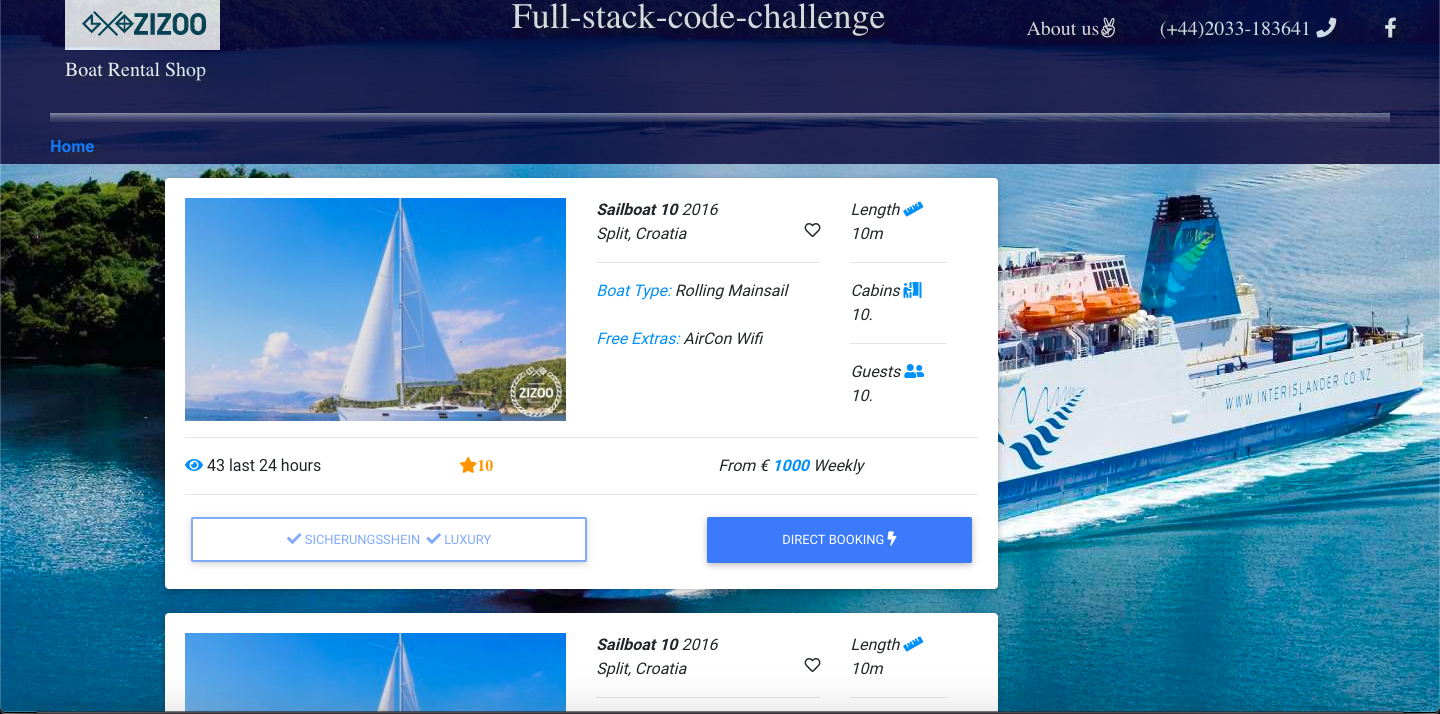
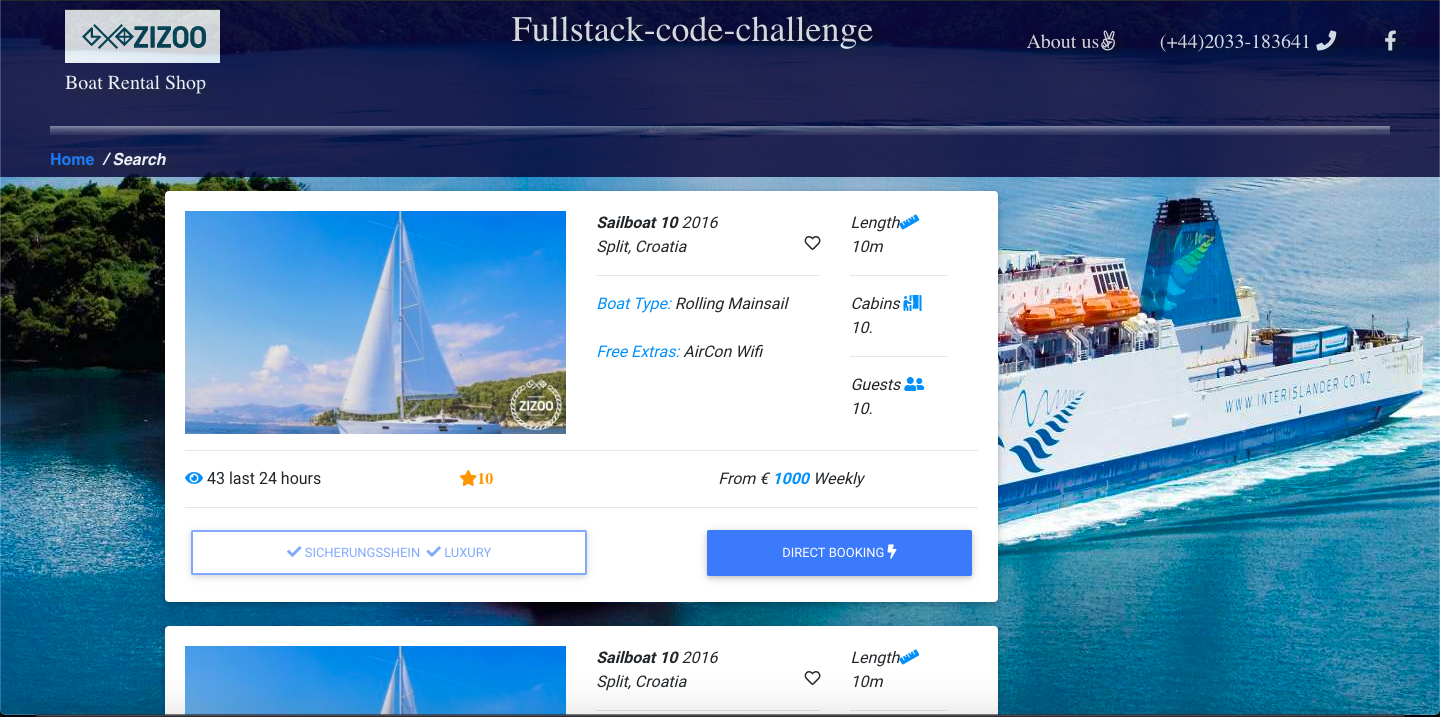
update image README and header

diff --git a/src/components/offer-item.js b/src/components/offer-item.js
@@ -20,7 +20,7 @@ class OfferItem extends Component {
 
     constructor(props) {
         super(props);
-        this.state.offerItem = (this.props.offerItem !== undefined) ? this.props.offerItem : null;
+        this.state.offerItem = this.props.offerItem;
         this.state.offerItem.free_extras = this.convertStringToJson(this.state.offerItem.free_extras);
     }
 

diff --git a/src/Common_Constants.js b/src/Common_Constants.js
@@ -22,5 +22,5 @@ export const ComConstance = {
         luxury: 'Luxury'
     },
     directBooking: 'Direct Booking',
-    headerTitle: 'React-Graphql in a nutshell'
+    headerTitle: 'Fullstack-code-challenge'
 }
